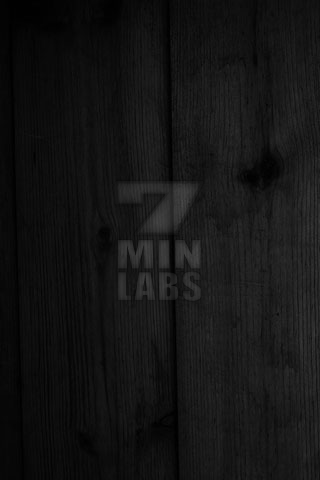
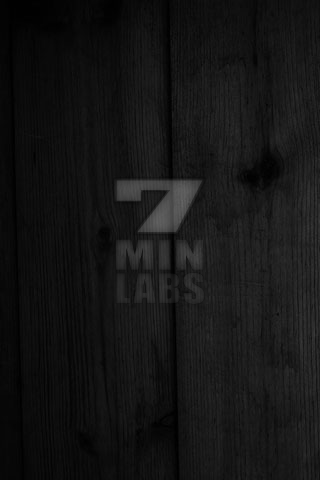
tweaks

Changed region(s): [[0.3438, 0.375, 0.625, 0.5]]

diff --git a/MealTime/PlaceCell.m b/MealTime/PlaceCell.m
@@ -99,9 +99,9 @@
     UIImageView *scoreImageView = [[[UIImageView alloc] initWithImage:[UIImage stretchableImageNamed:@"bg_pill.png" withLeftCapWidth:12 topCapWidth:0]] autorelease];
     scoreImageView.autoresizingMask = ~UIViewAutoresizingNone;
     scoreImageView.frame = _scoreView.bounds;
+    [_scoreView addSubview:scoreImageView];
     _scoreLabel.autoresizingMask = ~UIViewAutoresizingNone;
     _scoreLabel.frame = _scoreView.bounds;
-    [_scoreView addSubview:scoreImageView];
     [_scoreView addSubview:_scoreLabel];
     
     // Add subviews
@@ -163,15 +163,7 @@
   _ribbonView.frame = CGRectMake(self.contentView.width - 85, MARGIN_Y * 2, 85, 24);
   _ribbonLabel.frame = CGRectMake(0, 0, _ribbonView.width - MARGIN_X, _ribbonView.height);
   
-  _scoreView.frame = CGRectMake(MARGIN_X, MARGIN_Y * 2, 48, 24);
-  NSInteger metaScore = [[_place objectForKey:@"score"] integerValue];
-  if (metaScore >= 33 && metaScore <= 66) {
-    _scoreLabel.textColor = [UIColor yellowColor];
-  } else if (metaScore < 33) {
-    _scoreLabel.textColor = [UIColor redColor];
-  } else if (metaScore > 66) {
-    _scoreLabel.textColor = [UIColor greenColor];
-  }
+  _scoreView.frame = CGRectMake(MARGIN_X, MARGIN_Y * 2, 42, 24);
   
   // Labels
   CGFloat top = self.contentView.height - 40 - MARGIN_Y;
@@ -240,7 +232,33 @@
   _distanceLabel.text = [NSString stringWithFormat:@"%@ mi", [place objectForKey:@"distance"]];
   _categoryLabel.text = [[place objectForKey:@"category"] notNil] ? [place objectForKey:@"category"] : @"Unknown Category";
   _priceLabel.text = [[place objectForKey:@"price"] notNil] ? [place objectForKey:@"price"] : nil;
-  _scoreLabel.text = [NSString stringWithFormat:@"%@%%", [place objectForKey:@"score"]];
+  
+  // Score
+  NSString *score = nil;
+  NSInteger metaScore = [[place objectForKey:@"score"] integerValue];
+  if (metaScore > 90) {
+    score = @"A+";
+  } else if (metaScore > 80) {
+    score = @"A";
+  } else if (metaScore > 70) {
+    score = @"A-";
+  } else if (metaScore > 60) {
+    score = @"B+";
+  } else if (metaScore > 50) {
+    score = @"B";
+  } else if (metaScore > 40) {
+    score = @"B-";
+  } else if (metaScore > 30) {
+    score = @"C+";
+  } else if (metaScore > 20) {
+    score = @"C";
+  } else if (metaScore >= 10) {
+    score = @"C-";
+  } else {
+    score = @"F";
+  }
+  
+  _scoreLabel.text = score;
   
 //  _ribbonLabel.text = nil;
 //  _ribbonLabel.text = [NSString stringWithFormat:@"%@%% %@ ", [place objectForKey:@"score"], freshOrRotten];

diff --git a/MealTime/InfoViewController.m b/MealTime/InfoViewController.m
@@ -38,7 +38,7 @@
 
 #pragma mark - View Config
 - (UIView *)backgroundView {
-  UIImageView *bg = [[[UIImageView alloc] initWithImage:[UIImage imageNamed:@"bg_darkwood.jpg"]] autorelease];
+  UIImageView *bg = [[[UIImageView alloc] initWithImage:[UIImage imageNamed:@"Default.png"]] autorelease];
   bg.frame = self.view.bounds;
   bg.autoresizingMask = ~UIViewAutoresizingNone;
   return bg;
@@ -52,10 +52,10 @@
   _navTitleLabel.text = @"MealTime";
   
   
-  UIImageView *logo = [[[UIImageView alloc] initWithImage:[UIImage imageNamed:@"7ml_logo.png"]] autorelease];
-  logo.autoresizingMask = ~UIViewAutoresizingNone;
-  logo.center = self.view.center;
-  [self.view addSubview:logo];
+//  UIImageView *logo = [[[UIImageView alloc] initWithImage:[UIImage imageNamed:@"7ml_logo.png"]] autorelease];
+//  logo.autoresizingMask = ~UIViewAutoresizingNone;
+//  logo.center = self.view.center;
+//  [self.view addSubview:logo];
 }
 
 - (void)dismiss {

diff --git a/MealTime/SavedViewController.m b/MealTime/SavedViewController.m
@@ -84,7 +84,7 @@
   _navTitleLabel.text = @"Saved Places";
   
   
-  [_nullView setLoadingTitle:@"Loading..." loadingSubtitle:@"Finding Restaurants" emptyTitle:@"No Saved Places" emptySubtitle:@"You haven't saved any places yet" image:[UIImage imageNamed:@"nullview_photos.png"]];
+  [_nullView setLoadingTitle:@"Loading..." loadingSubtitle:@"Finding Restaurants" emptyTitle:@"No Saved Places" emptySubtitle:@"You haven't saved any places yet" image:[UIImage imageNamed:@"brokenplate.png"]];
   
   // Table
   [self setupTableViewWithFrame:self.view.bounds andStyle:UITableViewStylePlain andSeparatorStyle:UITableViewCellSeparatorStyleNone];

diff --git a/MealTime/DetailViewController.m b/MealTime/DetailViewController.m
@@ -135,7 +135,7 @@
   self.navigationItem.rightBarButtonItem = _starButton;
   self.navigationItem.leftBarButtonItem = [UIBarButtonItem navBackButtonWithTarget:self action:@selector(back)];
   
-  [_nullView setLoadingTitle:@"Loading..." loadingSubtitle:@"Finding Photos of Food" emptyTitle:@"No Photos" emptySubtitle:@"This Place Has No Photos" image:nil];
+  [_nullView setLoadingTitle:@"Loading..." loadingSubtitle:@"Finding Photos of Food" emptyTitle:@"No Photos" emptySubtitle:@"This Place Has No Photos" image:[UIImage imageNamed:@"brokenplate.png"]];
   
   // iAd
 //  _adView = [self newAdBannerViewWithDelegate:self];

diff --git a/MealTime/RootViewController.m b/MealTime/RootViewController.m
@@ -145,7 +145,7 @@
   
   self.view.backgroundColor = [UIColor blackColor];
   
-  [_nullView setLoadingTitle:@"Loading..." loadingSubtitle:@"Finding Restaurants" emptyTitle:@"No Places Found" emptySubtitle:@"Try increasing the search range" image:[UIImage imageNamed:@"nullview_photos.png"]];
+  [_nullView setLoadingTitle:@"Loading..." loadingSubtitle:@"Finding Restaurants" emptyTitle:@"No Places Found" emptySubtitle:@"Try increasing the search range" image:[UIImage imageNamed:@"brokenplate.png"]];
   
   // iAd
 //  _adView = [self newAdBannerViewWithDelegate:self];

diff --git a/MealTime/BizDataCenter.m b/MealTime/BizDataCenter.m
@@ -295,7 +295,7 @@ static NSLock *_placeLock = nil;
   NSURL *yelpUrl = [NSURL URLWithString:yelpUrlString];
   
   __block ASIHTTPRequest *request = [ASIHTTPRequest requestWithURL:yelpUrl];
-  request.numberOfTimesToRetryOnTimeout = 3;
+  request.numberOfTimesToRetryOnTimeout = 1;
   [request setShouldContinueWhenAppEntersBackground:YES];
   [request setUserAgent:USER_AGENT];
   
